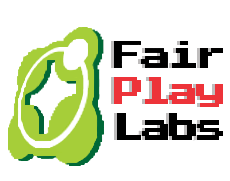
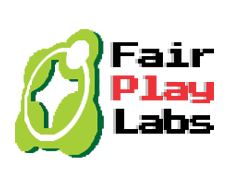
cambios de size y paddings

Changed region(s): [[0.0304, 0.1381, 0.9739, 0.9392], [0.2435, 0.5525, 0.2739, 0.6077], [0.2739, 0.5249, 0.3043, 0.5525]]

diff --git a/css/style.css b/css/style.css
@@ -380,7 +380,15 @@ th {
 .sprite-button {
   background-position: -173px 0;
   width: 155px;
-  height: 40px; }
+  height: 60px; }
+
+html {
+  box-sizing: border-box;
+  font-size: 62.5%;
+  font-family: Arial,Verdana,sans-serif; }
+
+*, *:before, *:after {
+  box-sizing: inherit; }
 
 body {
   background-color: #f4f4f4; }
@@ -399,7 +407,7 @@ ul {
 
 p {
   font-family: "Muli", sans-serif;
-  font-size: 1.2rem;
+  font-size: 2rem;
   margin: 20px 0;
   padding: 0; }
 
@@ -408,7 +416,7 @@ h1, h2, h3, h4 {
   padding: 0; }
 
 h2, h3 {
-  font-size: 2.5rem;
+  font-size: 4rem;
   font-family: "Iceland", serif; }
 
 button:focus, button:active {
@@ -429,7 +437,7 @@ button:focus, button:active {
 
 .title-main {
   color: #359E97;
-  font-size: 4rem;
+  font-size: 9rem;
   text-align: center;
   text-shadow: -4px 4px 0 #000;
   font-family: "Iceland", serif;
@@ -459,13 +467,13 @@ footer {
       width: 60%; } }
   .text-footer p {
     font-family: "Iceland", serif;
-    font-size: 1.8rem; }
+    font-size: 2.3rem; }
     @media (min-width: 1334px) {
       .text-footer p {
         width: 64%;
         margin: 0 auto; } }
   .text-footer .strong {
-    font-size: 2rem;
+    font-size: 3rem;
     color: #FD7949; }
   @media (min-width: 1334px) {
     .text-footer:after {
@@ -523,14 +531,14 @@ footer {
       width: initial; } }
 
 .about {
-  padding: 4% 0 2%; }
+  padding: 4% 0 4.5%; }
 
 .about span {
   color: #ff6e3a; }
 
 @media (min-width: 1024px) {
   .about p:first-child {
-    font-size: 1.5rem; } }
+    font-size: 2.3rem; } }
 /*Partners*/
 .partners {
   background-color: #fff;
@@ -593,7 +601,7 @@ footer {
 
 .nav-item > a {
   color: #fff;
-  font-size: 2rem;
+  font-size: 3.2rem;
   padding: 2px;
   text-decoration: none;
   text-transform: capitalize; }
@@ -640,7 +648,7 @@ footer {
   transform: rotate(90deg); }
 
 .nav-item a {
-  font-size: 2rem; }
+  font-size: 3.2rem; }
 
 .nav-item:hover .subnav {
   position: inherit;
@@ -893,7 +901,7 @@ footer {
 @media (min-width: 1024px) {
   .demo-play-note {
     font-family: "Iceland", serif;
-    font-size: 1rem;
+    font-size: 2rem;
     margin-top: 15px; }
     .demo-play-note span {
       text-transform: uppercase; } }
@@ -931,10 +939,10 @@ footer {
   width: 100%; }
   .demo-content-team h3 {
     color: #359e97;
-    font-size: 2rem;
+    font-size: 4rem;
     margin-bottom: 15px; }
   .demo-content-team li {
-    font-size: 1rem;
+    font-size: 1.6rem;
     line-height: 1.5rem;
     margin-bottom: 10px; }
   @media (min-width: 1024px) {
@@ -947,7 +955,7 @@ footer {
         float: left;
         margin-right: 10%; }
       .demo-content-team li {
-        font-size: 1.1rem;
+        font-size: 1.6rem;
         line-height: 2.4rem;
         margin-bottom: 5px; } }
 
@@ -961,7 +969,8 @@ footer {
     font-family: "Iceland", serif;
     text-align: center;
     text-decoration: none;
-    padding-top: 11px; } }
+    padding-top: 8px;
+    font-size: 3rem; } }
 
 .play {
   background-image: url("../img/sprite.png");

diff --git a/sass/partials/_base.scss b/sass/partials/_base.scss
@@ -1,6 +1,15 @@
 // 
 // Estilos para los elementos base y footer
 //
+html {
+  box-sizing:border-box;
+  font-size:62.5%;
+  font-family: Arial,Verdana,sans-serif;
+}
+  *, *:before, *:after{
+  box-sizing:inherit;
+  
+}
 
 body {
   background-color: #f4f4f4;
@@ -23,7 +32,7 @@ ul {
 
 p {
   font-family: $text;
-  font-size: 1.2rem;
+  font-size: 2rem;
   margin: 20px 0; 
   padding: 0;
 }
@@ -34,7 +43,7 @@ h1, h2, h3, h4{
 }
 
 h2, h3{
-  font-size: 2.5rem;
+  font-size: 4rem;
   font-family:$title-text;
 }
 
@@ -59,7 +68,7 @@ button:focus, button:active {
 
 .title-main {
   color: #359E97;
-	font-size: 4rem;
+	font-size: 9rem;
 	text-align:center;
   text-shadow: -4px 4px 0 #000;
 	font-family:$title-text;
@@ -91,14 +100,14 @@ footer {
   color: #E8EBED;
   p {
     font-family: $title-text;
-    font-size: 1.8rem;
+    font-size: 2.3rem;
     @media (min-width: 1334px){
       width: 64%;
       margin: 0 auto;
     }
   }
   .strong {
-    font-size: 2rem;
+    font-size: 3rem;
     color: #FD7949;
   }
   @media (min-width: 1334px){

diff --git a/sass/partials/modules/_games-pages.scss b/sass/partials/modules/_games-pages.scss
@@ -46,7 +46,7 @@
 .demo-play-note {
     @media (min-width: 1024px) {
         font-family: $title-text;
-        font-size: 1rem;
+        font-size: 2rem;
         margin-top: 15px;
         span{
             text-transform: uppercase;
@@ -90,11 +90,11 @@
     width:100%;
     h3 {
         color: $title-color;
-        font-size: 2rem;
+        font-size: 4rem;
         margin-bottom: 15px;
     }
     li {
-        font-size: 1rem;
+        font-size: 1.6rem;
         line-height: 1.5rem;
         margin-bottom: 10px;
     }
@@ -109,7 +109,7 @@
             margin-right: 10%;
         }
         li{
-            font-size: 1.1rem;
+            font-size: 1.6rem;
             line-height: 2.4rem;
             margin-bottom: 5px;
         }
@@ -126,6 +126,7 @@
         font-family: $title-text;
         text-align: center;
         text-decoration: none;
-        padding-top: 11px;
+        padding-top: 8px;
+        font-size: 3rem;
     }
 }

diff --git a/index.html b/index.html
@@ -80,7 +80,7 @@
     <!-- Games Section -->
     <section class="games">
         <h2 class="title-main">Juegos</h2>
-        <section class="content">
+        <section class="games-content-info content">
           <p>Durante los dos últimos fines de semana de febrero, los estudiantes del CETAV contaron con una etapa de formación y capacitación sobre cambio climático, a
             cargo de representantes del Programa de Naciones Unidas para el Desarrollo (PNUD); además, recibieron charlas y talleres acerca del proceso de realización
             de un videojuego.

diff --git a/sass/partials/modules/_navigation.scss b/sass/partials/modules/_navigation.scss
@@ -44,7 +44,7 @@
 
 .nav-item > a{
     color: $link-colors;
-    font-size: 2rem;
+    font-size: 3.2rem;
     padding: 2px;
     text-decoration: none;
     text-transform: capitalize;
@@ -92,7 +92,7 @@
 }
 
 .nav-item a{
-    font-size: 2rem;
+    font-size: 3.2rem;
 }
 
 .nav-item:hover .subnav{

diff --git a/sass/partials/modules/_header.scss b/sass/partials/modules/_header.scss
@@ -20,7 +20,7 @@
 
 //About//
 .about {
-    padding: 4% 0 2%;
+    padding: 4% 0 4.5%;
 }
 
 .about span{
@@ -29,7 +29,7 @@
 
 @media (min-width: 1024px)  {
     .about p:first-child{
-        font-size: 1.5rem;
+        font-size: 2.3rem;
     }
 }
 

diff --git a/sass/partials/_sprite.scss b/sass/partials/_sprite.scss
@@ -85,7 +85,7 @@
 .sprite-button {
   background-position: -173px 0;
   width: 155px;
-  height: 40px;
+  height: 60px;
 }
 
 @mixin sprite-button-play {
